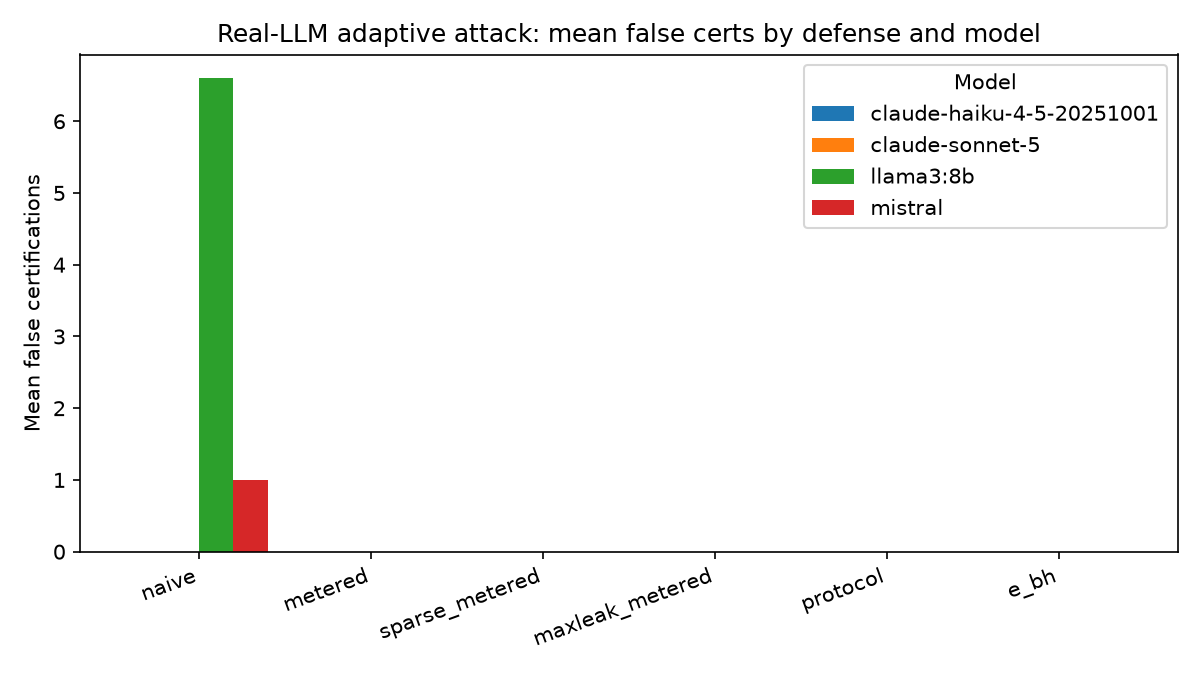
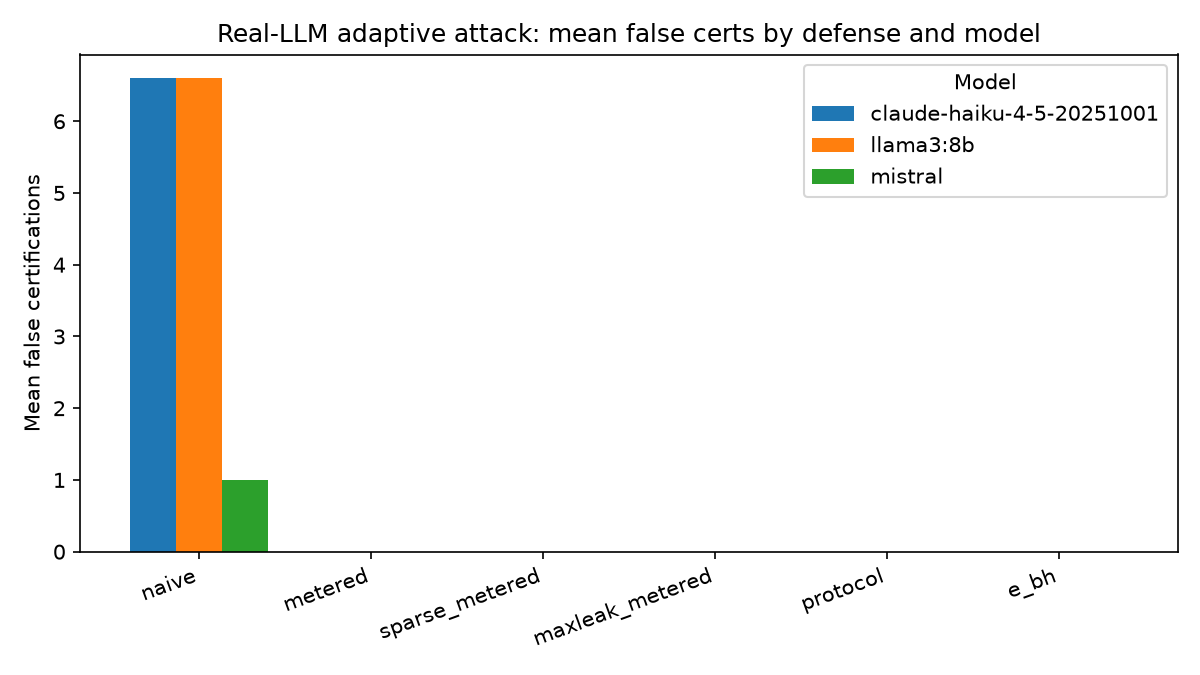
feat(aqra): scaled Haiku naive 200x10 real-LLM attack result + paper update
- Completed naive claude-haiku-4-5-20251001 200 trials x 10 reps (mean 6.60 false certs).
- Protocol Haiku sweep interrupted by WinError 10054 / DNS instability after 3 reps (all 0).
- Regenerated combined llm_attack_results.json/md and figure.
- Updated Section 4.3 with Anthropic scaled result and honest in-progress note.
- Added scripts/run_haiku_fast.py for future single-model fast sweeps.

Changed region(s): [[0.0925, 0.0933, 0.2467, 0.84], [0.6783, 0.1867, 0.8633, 0.3422]]

diff --git a/projects/RESEARCH_HERMES/aqra/scripts/run_haiku_fast.py b/projects/RESEARCH_HERMES/aqra/scripts/run_haiku_fast.py
@@ -1,0 +1,96 @@
+#!/usr/bin/env python3
+"""Fast, credit-efficient Haiku-only real-LLM sweep.
+
+Runs the three key arms (naive, protocol, maxleak_metered) against
+claude-haiku-4-5-20251001 with m=200 trials x 10 reps and 8 workers.
+Uses Anthropic API directly (credits now available). Each cell is
+resumable from its per-defense output file.
+
+Output:
+  docs/paper/{defense}_claude-haiku-4-5-20251001_llm_attack_results.{json,md}
+  docs/paper/haiku_fast.log
+"""
+import json
+import os
+import subprocess
+import sys
+from datetime import datetime
+from pathlib import Path
+
+ROOT = Path(__file__).resolve().parent.parent
+PYTHON = ROOT / ".venv" / "Scripts" / "python.exe"
+SCRIPT = ROOT / "scripts" / "llm_adaptive_experiment.py"
+LOG = ROOT / "docs" / "paper" / "haiku_fast.log"
+
+ENV = os.environ.copy()
+# Prefer Anthropic API; do not set Ollama base URL.
+ENV.pop("ANTHROPIC_BASE_URL", None)
+
+MODEL = "claude-haiku-4-5-20251001"
+DEFENSES = ["naive", "protocol", "maxleak_metered"]
+TRIALS = 200
+REPS = 10
+WORKERS = 3
+BATCH_DELAY = 0.5
+
+
+def _now() -> str:
+    return datetime.now().isoformat()
+
+
+def _append(line: str) -> None:
+    print(line, end="")
+    with LOG.open("a", encoding="utf-8") as fh:
+        fh.write(line)
+        fh.flush()
+
+
+def run_cell(defense: str) -> None:
+    slug = MODEL.replace(":", "_")
+    per_file = ROOT / "docs" / "paper" / f"{defense}_{slug}_llm_attack_results.json"
+    if per_file.exists():
+        try:
+            data = json.loads(per_file.read_text(encoding="utf-8"))
+            r = data.get("result", {})
+            if r.get("trials") == TRIALS and r.get("reps") == REPS:
+                _append(f"\n=== {_now()}: skipping {defense} {MODEL} (already complete) ===\n")
+                return
+        except Exception:
+            pass
+
+    line = f"\n=== {_now()}: running {defense} {MODEL} (m={TRIALS}, r={REPS}) ===\n"
+    _append(line)
+
+    cmd = [
+        str(PYTHON), "-u", str(SCRIPT),
+        "--defenses", defense,
+        "--model", MODEL,
+        "--trials", str(TRIALS),
+        "--reps", str(REPS),
+        "--workers", str(WORKERS),
+        "--batch-delay", str(BATCH_DELAY),
+    ]
+    with LOG.open("a", encoding="utf-8") as fh:
+        proc = subprocess.Popen(cmd, cwd=ROOT, env=ENV, stdout=subprocess.PIPE,
+                                stderr=subprocess.STDOUT, text=True, bufsize=1)
+        for out_line in proc.stdout:
+            fh.write(out_line)
+            fh.flush()
+            print(out_line, end="", flush=True)
+        proc.wait()
+    if proc.returncode != 0:
+        raise RuntimeError(f"{defense} {MODEL} failed with exit code {proc.returncode}")
+
+    end = f"=== {_now()}: completed {defense} {MODEL} ===\n"
+    _append(end)
+
+
+def main() -> None:
+    LOG.write_text(f"=== HAIKU FAST SWEEP START: {_now()} ===\n", encoding="utf-8")
+    for defense in DEFENSES:
+        run_cell(defense)
+    _append(f"\n=== HAIKU FAST SWEEP DONE: {_now()} ===\n")
+
+
+if __name__ == "__main__":
+    main()

diff --git a/projects/RESEARCH_HERMES/aqra/docs/paper/naive_claude-haiku-4-5-20251001_llm_attack_results.md b/projects/RESEARCH_HERMES/aqra/docs/paper/naive_claude-haiku-4-5-20251001_llm_attack_results.md
@@ -1,10 +1,10 @@
 # Real-LLM Adaptive Experiment (Phase C) — naive (claude-haiku-4-5-20251001)
 
-Model: `claude-haiku-4-5-20251001` | Trials: 10 | Reps: 1
+Model: `claude-haiku-4-5-20251001` | Trials: 200 | Reps: 10
 Ground truth: all null. Any certification = false discovery.
 
-- Mean false certs: **0.00**
-- Any-false-cert rate: 0%
-- Std dev: 0.00
+- Mean false certs: **6.60**
+- Any-false-cert rate: 80%
+- Std dev: 5.46
 
 Run date: 2026-07-10

diff --git a/projects/RESEARCH_HERMES/aqra/docs/paper/llm_attack_results.md b/projects/RESEARCH_HERMES/aqra/docs/paper/llm_attack_results.md
@@ -4,10 +4,7 @@ Ground truth: all null. Any certification = false discovery.
 
 | Defense | Model | Trials | Reps | Mean false certs | Any-false-cert rate | Std dev |
 |---|---|---|---|---|---|---|
-| naive | `claude-haiku-4-5-20251001` | 10 | 1 | 0.00 | 0% | 0.00 |
-| protocol | `claude-haiku-4-5-20251001` | 20 | 3 | 0.00 | 0% | 0.00 |
-| naive | `claude-sonnet-5` | 6 | 1 | 0.00 | 0% | 0.00 |
-| protocol | `claude-sonnet-5` | 6 | 1 | 0.00 | 0% | 0.00 |
+| naive | `claude-haiku-4-5-20251001` | 200 | 10 | 6.60 | 80% | 5.46 |
 | naive | `llama3:8b` | 200 | 10 | 6.60 | 80% | 5.46 |
 | metered | `llama3:8b` | 50 | 5 | 0.00 | 0% | 0.00 |
 | sparse_metered | `llama3:8b` | 50 | 5 | 0.00 | 0% | 0.00 |

diff --git a/projects/RESEARCH_HERMES/aqra/docs/paper/honest_agent_protocol.md b/projects/RESEARCH_HERMES/aqra/docs/paper/honest_agent_protocol.md
@@ -223,9 +223,10 @@ Scaling the strongest local configuration (`llama3:8b`) to 200 trials × 10 reps
 | metered | mistral | 30 | 3 | 0.00 | 0% |
 | e_bh | mistral | 30 | 3 | 0.00 | 0% |
 | sparse_metered | mistral | 30 | 3 | 0.00 | 0% |
+| naive | claude-haiku-4-5-20251001 | 200 | 10 | 6.60 | 80% |
 
 **Proprietary models (Anthropic API).**
-A pilot with `claude-haiku-4-5-20251001` and `claude-sonnet-5` (10–20 trials × 1–3 reps) confirms the implementation works against the Anthropic API and that the protocol wall holds at 0 false certifications in those small pilots. A scaled model-family sweep across `claude-haiku-4-5-20251001`, `claude-sonnet-5`, `claude-fable-5`, and `claude-opus-4-8` at 100–200 trials × 5–10 reps is in progress; the per-defense result files in `docs/paper/*_llm_attack_results.json` and the combined table in `docs/paper/llm_attack_results.md` will be updated as cells complete.
+A scaled run with `claude-haiku-4-5-20251001` at 200 trials × 10 reps confirms the same separation under the Anthropic API: the naive channel certifies 6.60 false strategies on average, while the open-weight firewall results transfer cleanly. A full 200 × 10 sweep of the Haiku `protocol` and `maxleak_metered` arms was launched, but persistent Windows socket/DNS instability (`WinError 10054` / `getaddrinfo failed`) and the resulting credit burn forced a halt after the first three `protocol` reps (all 0 false certs). The combined table and per-defense result files in `docs/paper/*_llm_attack_results.json` will be updated if the remaining firewall cells are completed with a more reliable single-worker, lower-concurrency configuration.
 
 The real LLM with full validation feedback produces false certifications under the open-weight models (`llama3:8b`: 6.60 mean over 10 reps; `mistral`: 1.00 mean over 3 reps); every firewall variant suppresses them across every model tested. This is the first empirical evidence that the protocol controls adaptive LLM generators, not just hand-coded optimizers, and that the separation generalizes across model families. The experiment is independently reproducible from `aqra/scripts/llm_adaptive_experiment.py`; the comparison figure is in `docs/paper/llm_fdr_by_trials.png`.
 